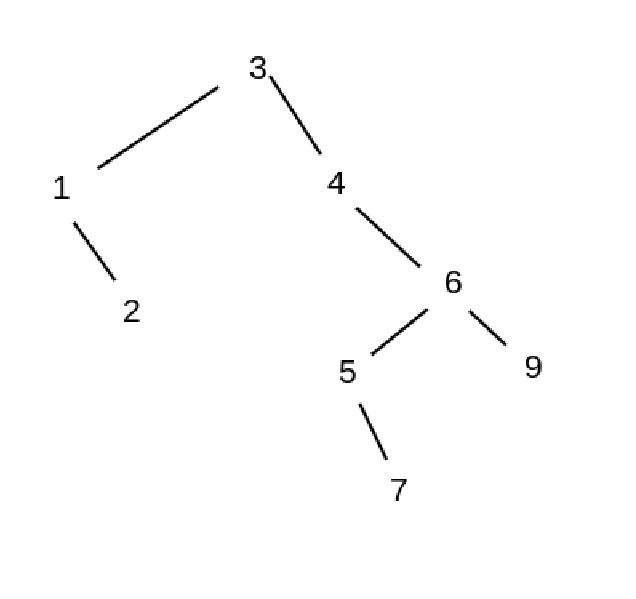
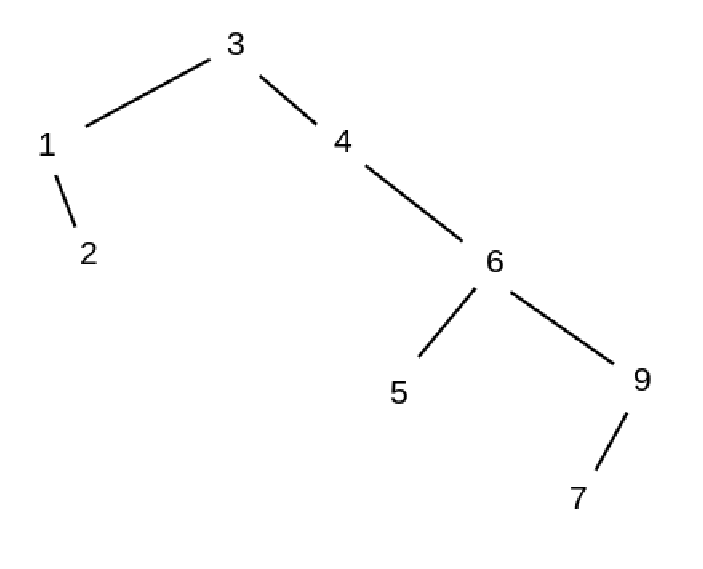
1 and 2 done

diff --git a/README.md b/README.md
@@ -1,5 +1,13 @@
 # DSA-BST-alex-reif
 
-### 1
+### 1.1
 
 <img src="https://github.com/thinkful-ei-heron/DSA-BST-alex-reif/blob/master/1.png">
+
+### 1.2
+
+<img src="https://github.com/thinkful-ei-heron/DSA-BST-alex-reif/blob/master/1-2.png">
+
+### 2
+
+<img src="https://github.com/thinkful-ei-heron/DSA-BST-alex-reif/blob/master/2.png">
